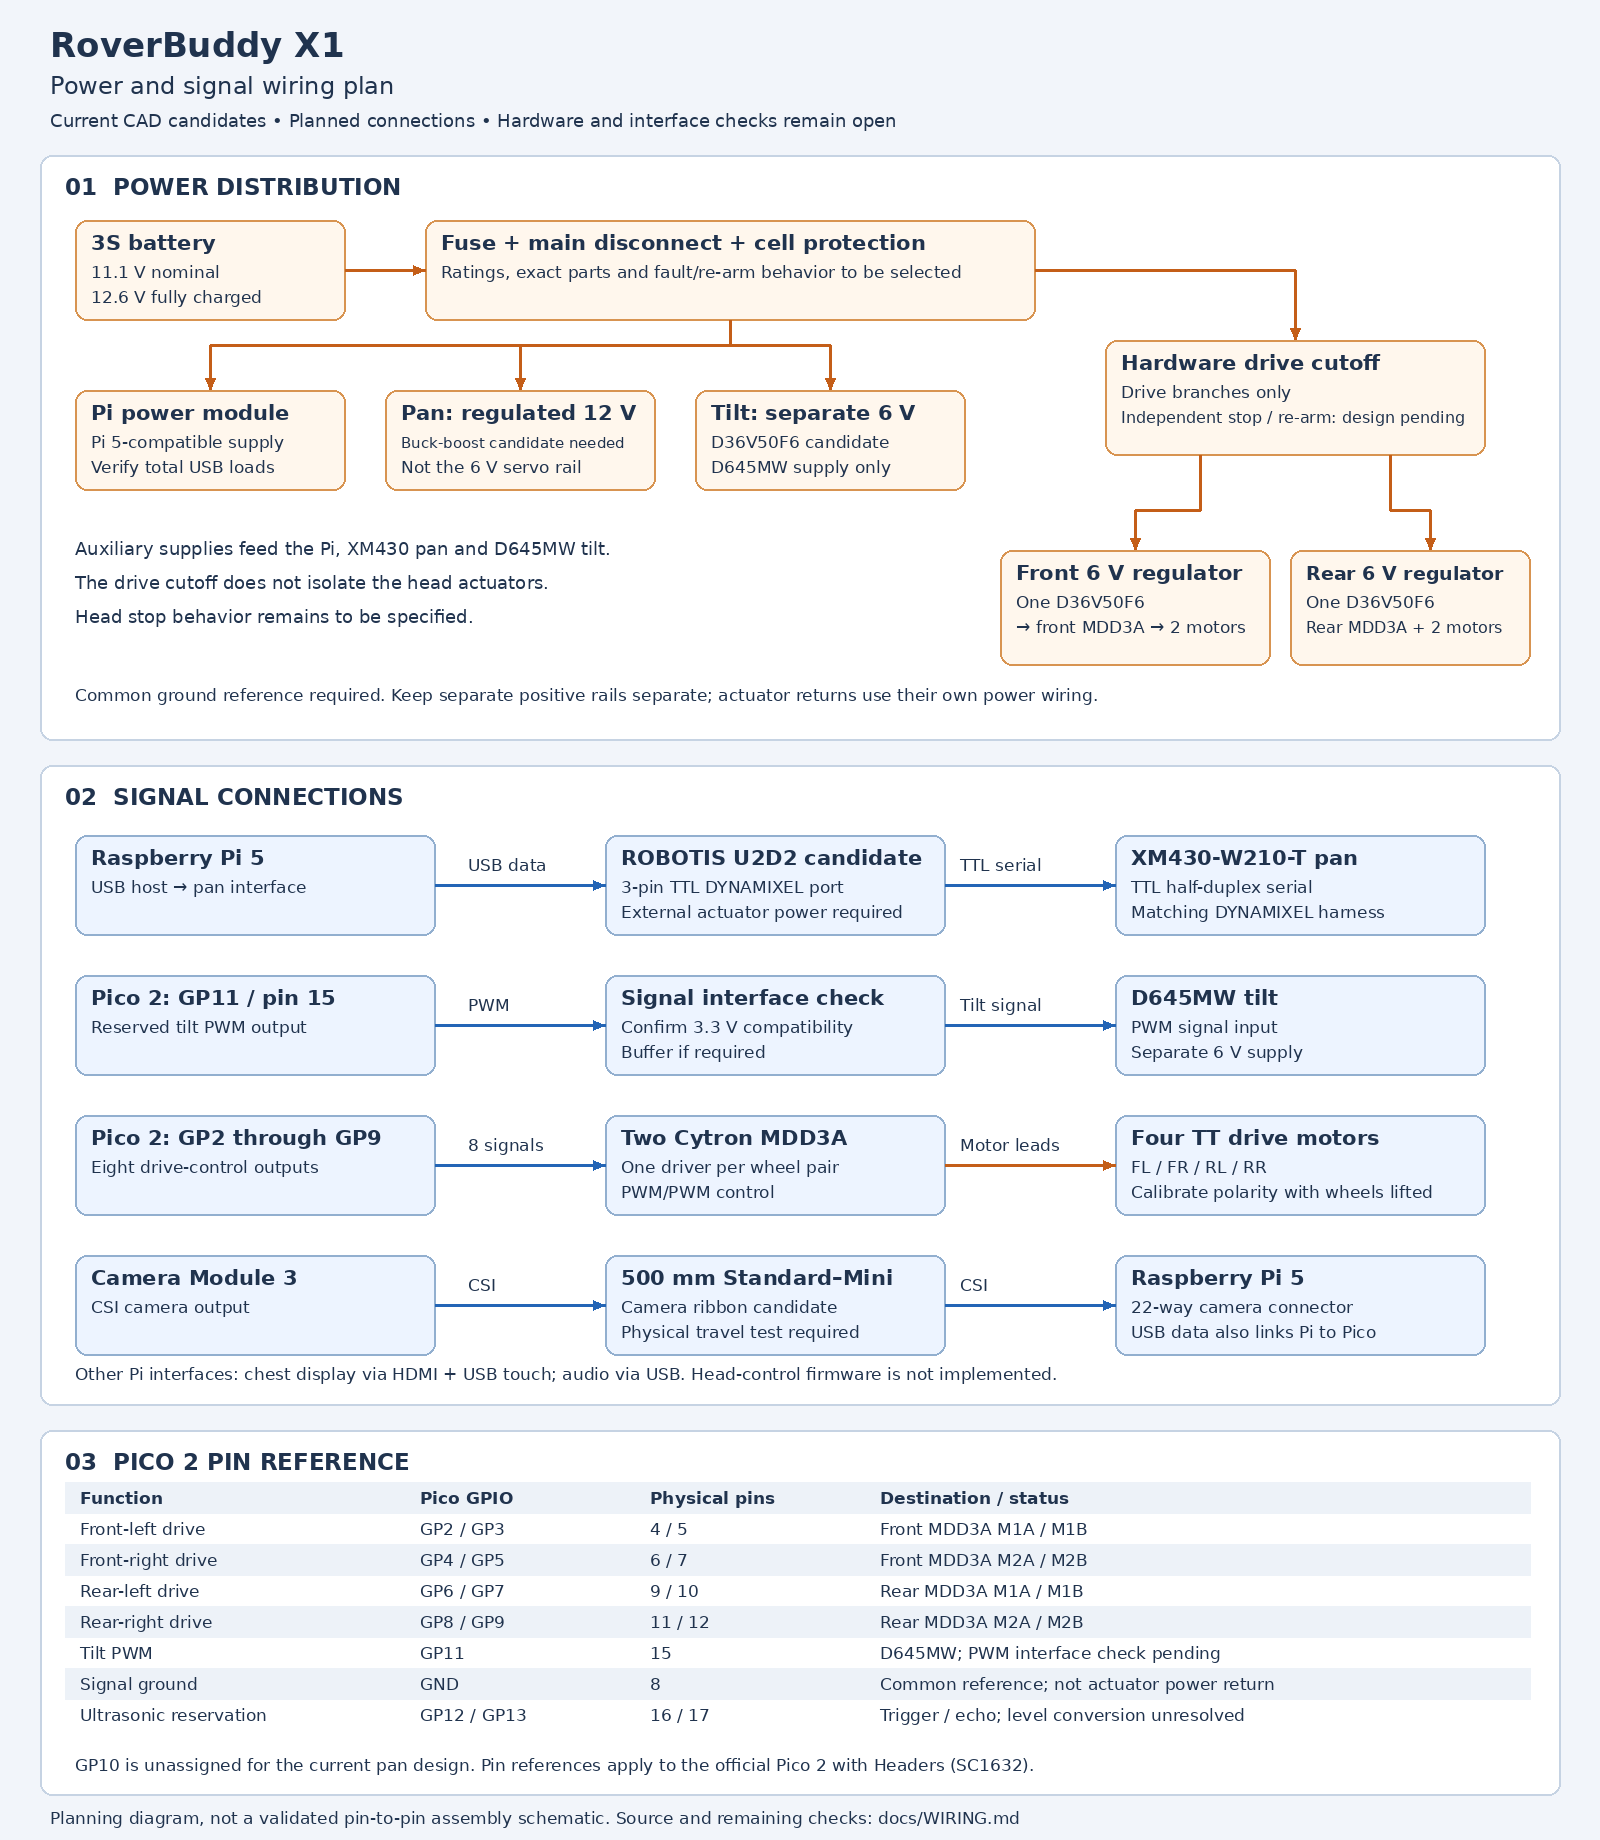
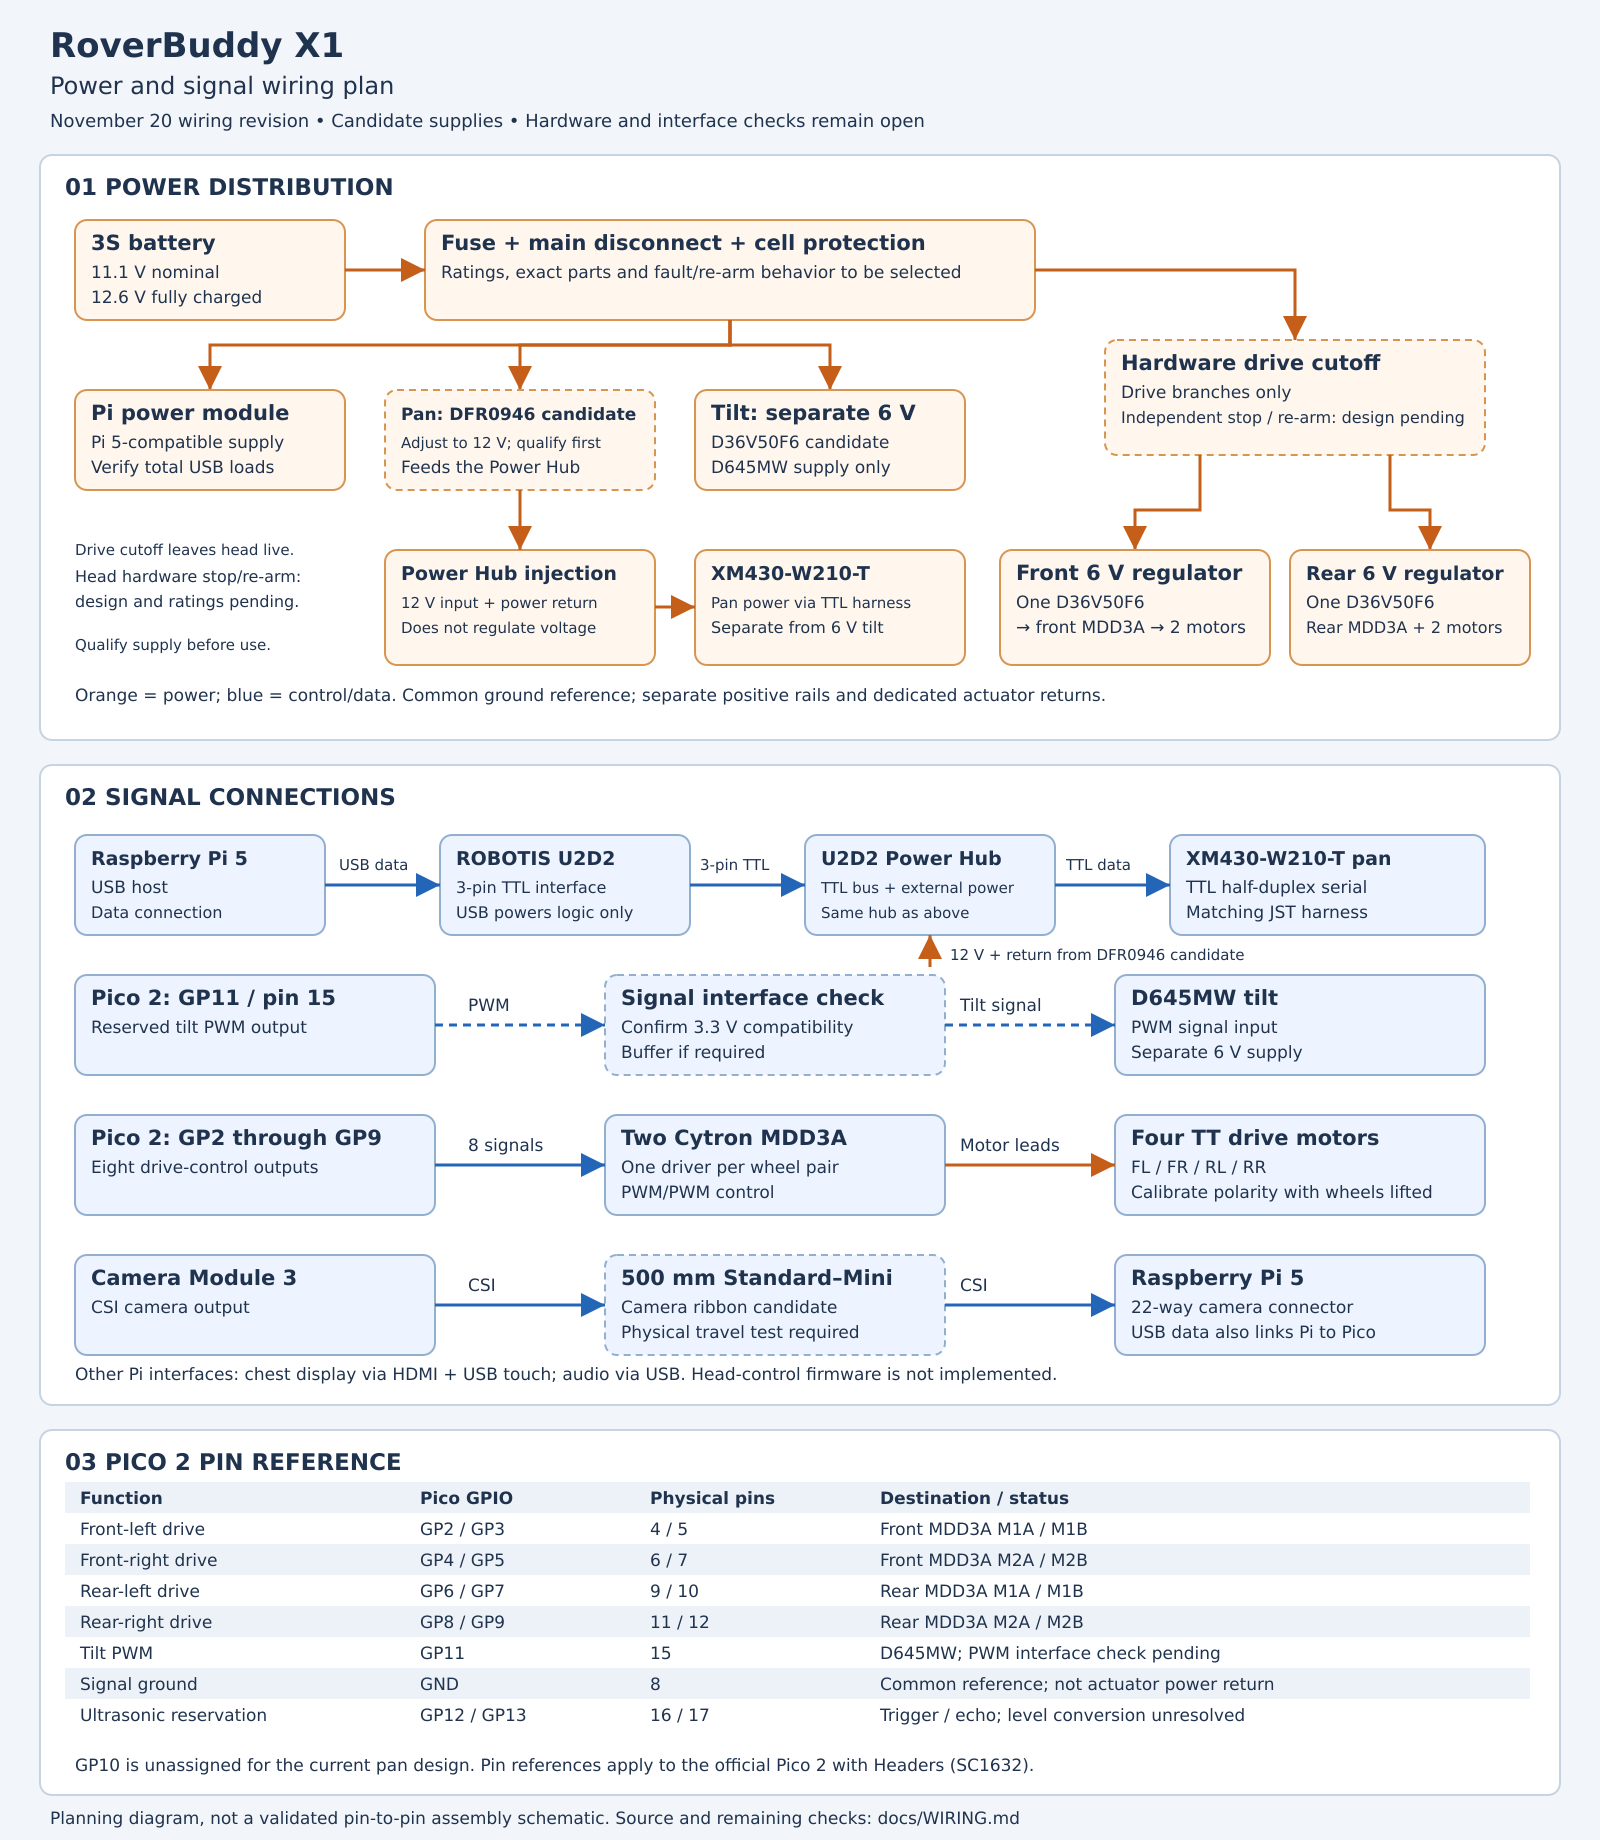
Show pan supply and Power Hub in existing wiring diagrams

diff --git a/docs/WIRING.md b/docs/WIRING.md
@@ -4,7 +4,7 @@ This diagram shows the intended architecture. It is not a validated electrical s
 
 ![RoverBuddy X1 power and signal wiring plan](images/wiring_draft.png)
 
-[Scalable SVG diagram](wiring_draft.svg). Orange paths show power; blue paths show control/data. The tilt signal interface, head stop behavior and final component ratings remain open.
+[Scalable SVG diagram](wiring_draft.svg). Orange paths show power; blue paths show control/data. The November 20 diagram now includes the DFR0946 supply candidate and U2D2 Power Hub. The hub appears in both views to show its power and signal roles; these are the same single BOM item. Supply qualification, the tilt signal interface, head stop behavior and final component ratings remain open.
 
 ## Current pan and tilt wiring plan
 
@@ -26,7 +26,8 @@ The proposed pan supply cannot be the existing 6 V servo regulator. A raw 3S pac
 ```mermaid
 flowchart TD
     PI["Raspberry Pi 5"] -->|USB data| USB["U2D2 candidate"]
-    USB -->|TTL half-duplex data| PAN["XM430-W210-T pan"]
+    USB -->|3-pin TTL| HUB["U2D2 Power Hub"]
+    HUB -->|TTL half-duplex data| PAN["XM430-W210-T pan"]
     PI -->|USB data| PICO["Pico 2"]
     PICO -->|"GP11 PWM; interface check pending"| TILT["D645MW tilt"]
 ```
@@ -35,9 +36,22 @@ flowchart TD
 flowchart TD
     PACK["Protected and isolated 3S supply"] --> PANREG["DFR0946 candidate at 12 V; qualification pending"]
     PACK --> TILTREG["Separate 6 V tilt regulator"]
-    PANREG --> PAN["XM430 supply input"]
+    PANREG --> HUB["Power Hub: external power input"]
+    HUB --> PAN["XM430 supply via TTL harness"]
     TILTREG --> TILT["D645MW supply input"]
 ```
+
+Proposed pan branch terminal mapping, subject to the supply qualification and protection checks below:
+
+| From | To | Role / check |
+|---|---|---|
+| Protected distribution positive and its power return | DFR0946 input + and input − | Input branch protection, wiring ratings and head stop remain pending |
+| DFR0946 output +, adjusted and measured at 12 V | Power Hub power-input terminal marked + | Verify setpoint and polarity with the actuator disconnected |
+| DFR0946 output − | Power Hub power-input terminal marked − | Dedicated power return; do not carry pan current through Pico GPIO ground wiring |
+| U2D2 3-pin TTL connector | Power Hub matching 3-pin connector | Data bus connection; USB does not supply actuator power |
+| Power Hub matching 3-pin connector | XM430-W210-T JST 3-pin connector | Combined actuator supply, ground and TTL data; verify exact connector markings and cable reach |
+
+Use the purchased board's terminal markings, not assumed left/right orientation in a picture. The Power Hub does not regulate voltage. Confirm its supplied supports provide underside clearance. [Manufacturer Power Hub layout and assembly](https://docs.robotis.com/docs/parts/interface/u2d2_power_hub/).
 
 These are signal and power paths, not a pin-to-pin assembly schematic. The existing hardware cutoff covers the drive-motor branches; the head-actuator stop and re-arm behavior still needs specifying. Neither the pan interface nor tilt PWM is implemented in the current drive firmware. Keep GP10 unassigned for this plan. Retain the bounded pan sweep and physically verified tilt limits before enabling movement.
 

diff --git a/README.md b/README.md
@@ -51,12 +51,13 @@ flowchart TD
   PICO -->|PWM/PWM| FD["Front MDD3A"]
   PICO -->|PWM/PWM| RD["Rear MDD3A"]
   PI -->|USB data| DXL["U2D2 candidate"]
-  DXL -->|TTL serial| PAN["XM430 pan"]
+  DXL -->|3-pin TTL| HUB["U2D2 Power Hub"]
+  HUB -->|TTL serial| PAN["XM430 pan"]
   PICO -->|"Tilt PWM; interface check pending"| TILT["D645MW tilt"]
 ```
 
 
-The diagram shows the planned connections. The [current pan and tilt wiring plan](docs/WIRING.md#current-pan-and-tilt-wiring-plan) separates the XM430 serial interface and 12 V power branch from the D645MW tilt PWM and 6 V supply. Head motion can be tested in the desktop simulator; physical head control is not yet implemented. The [wiring notes](docs/WIRING.md) include the proposed [Pico GPIO table](docs/WIRING.md#proposed-logical-gpio-allocation), the [front](docs/WIRING.md#motor-driver-1--front-wheels) and [rear](docs/WIRING.md#motor-driver-2--rear-wheels) motor-driver connections, and the battery protection and motor cutoff design. Component ratings and hardware validation are still pending.
+The diagram shows the planned connections. Pan data runs Pi USB → U2D2 → Power Hub → XM430, while the DFR0946 candidate feeds the hub's separate 12 V input. The hub does not regulate voltage. The [current pan and tilt wiring plan](docs/WIRING.md#current-pan-and-tilt-wiring-plan) separates the XM430 serial interface and 12 V power branch from the D645MW tilt PWM and 6 V supply. Head motion can be tested in the desktop simulator; physical head control is not yet implemented. The [wiring notes](docs/WIRING.md) include the proposed [Pico GPIO table](docs/WIRING.md#proposed-logical-gpio-allocation), the [front](docs/WIRING.md#motor-driver-1--front-wheels) and [rear](docs/WIRING.md#motor-driver-2--rear-wheels) motor-driver connections, and the battery protection and motor cutoff design. Component ratings and hardware validation are still pending.
 
 The [firmware instructions](firmware/README.md) explain how to run the drive/head simulation and the [follow-mode supervisor demo](firmware/README.md#desktop-follow-mode-supervisor) with synthetic observations. The planned workflow uses the camera to select a target and the controller to drive the four motors. The existing simulator also offers a [recorded-video detection dry run](firmware/README.md#recorded-video-detection-dry-run). End-to-end follow mode and hardware testing are pending.
 
